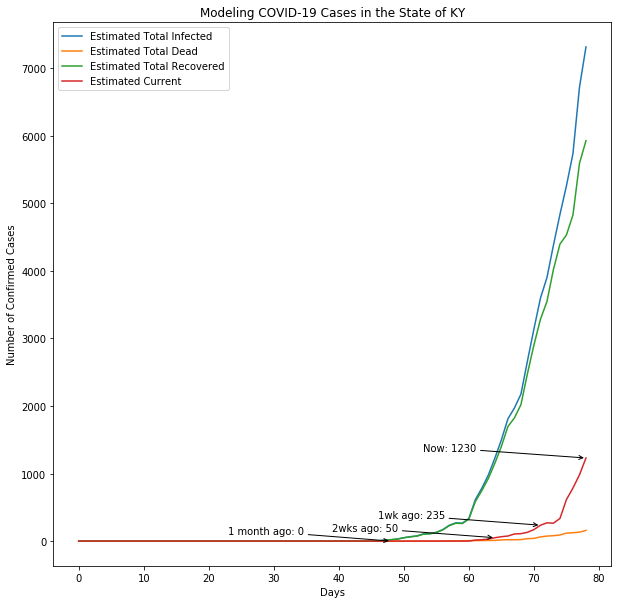
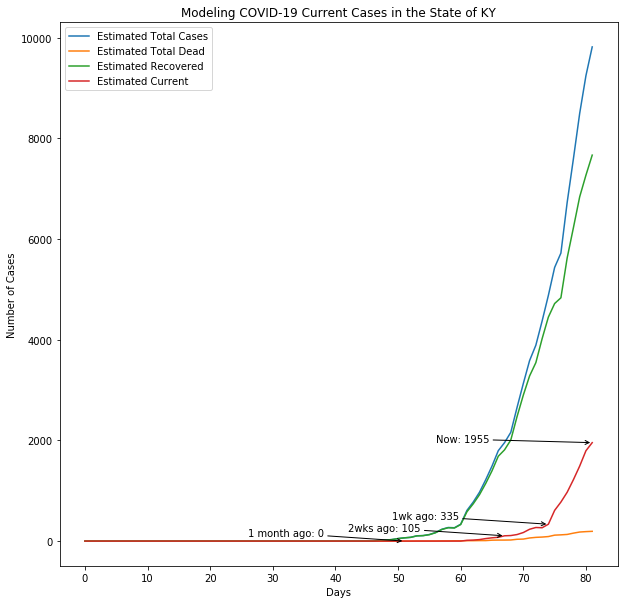
Updated COVID graphics based on model run this morning

diff --git a/pages/covid.html b/pages/covid.html
@@ -30,7 +30,7 @@
                 <li>Recovered cases are the total infected minus the total infected cases two weeks ago minus the total infected cases today multiplied by the mortality rate. </li>
                 <li>Mortality rate is used based on the deaths divided by total cases. When used in calculating other values, the most recent estimate is used, as most data is based on cumulative numbers.</li>
             </ol>
-            <p class="project">To the right are visualizations I was able to come up as of April 10, 2020. They will be periodically updated as new data comes in.</p>
+            <p class="project">To the right are visualizations I was able to come up as of April 13, 2020. They will be periodically updated as new data comes in.</p>
             <p class="sources">Sources for data: <br>
 <a href="https://usafacts.org/visualizations/coronavirus-covid-19-spread-map/" target="_blank">Infection & Death Counts</a><br>
 <a href="https://www.who.int/news-room/q-a-detail/q-a-similarities-and-differences-covid-19-and-influenza" target="_blank">WHO</a>
